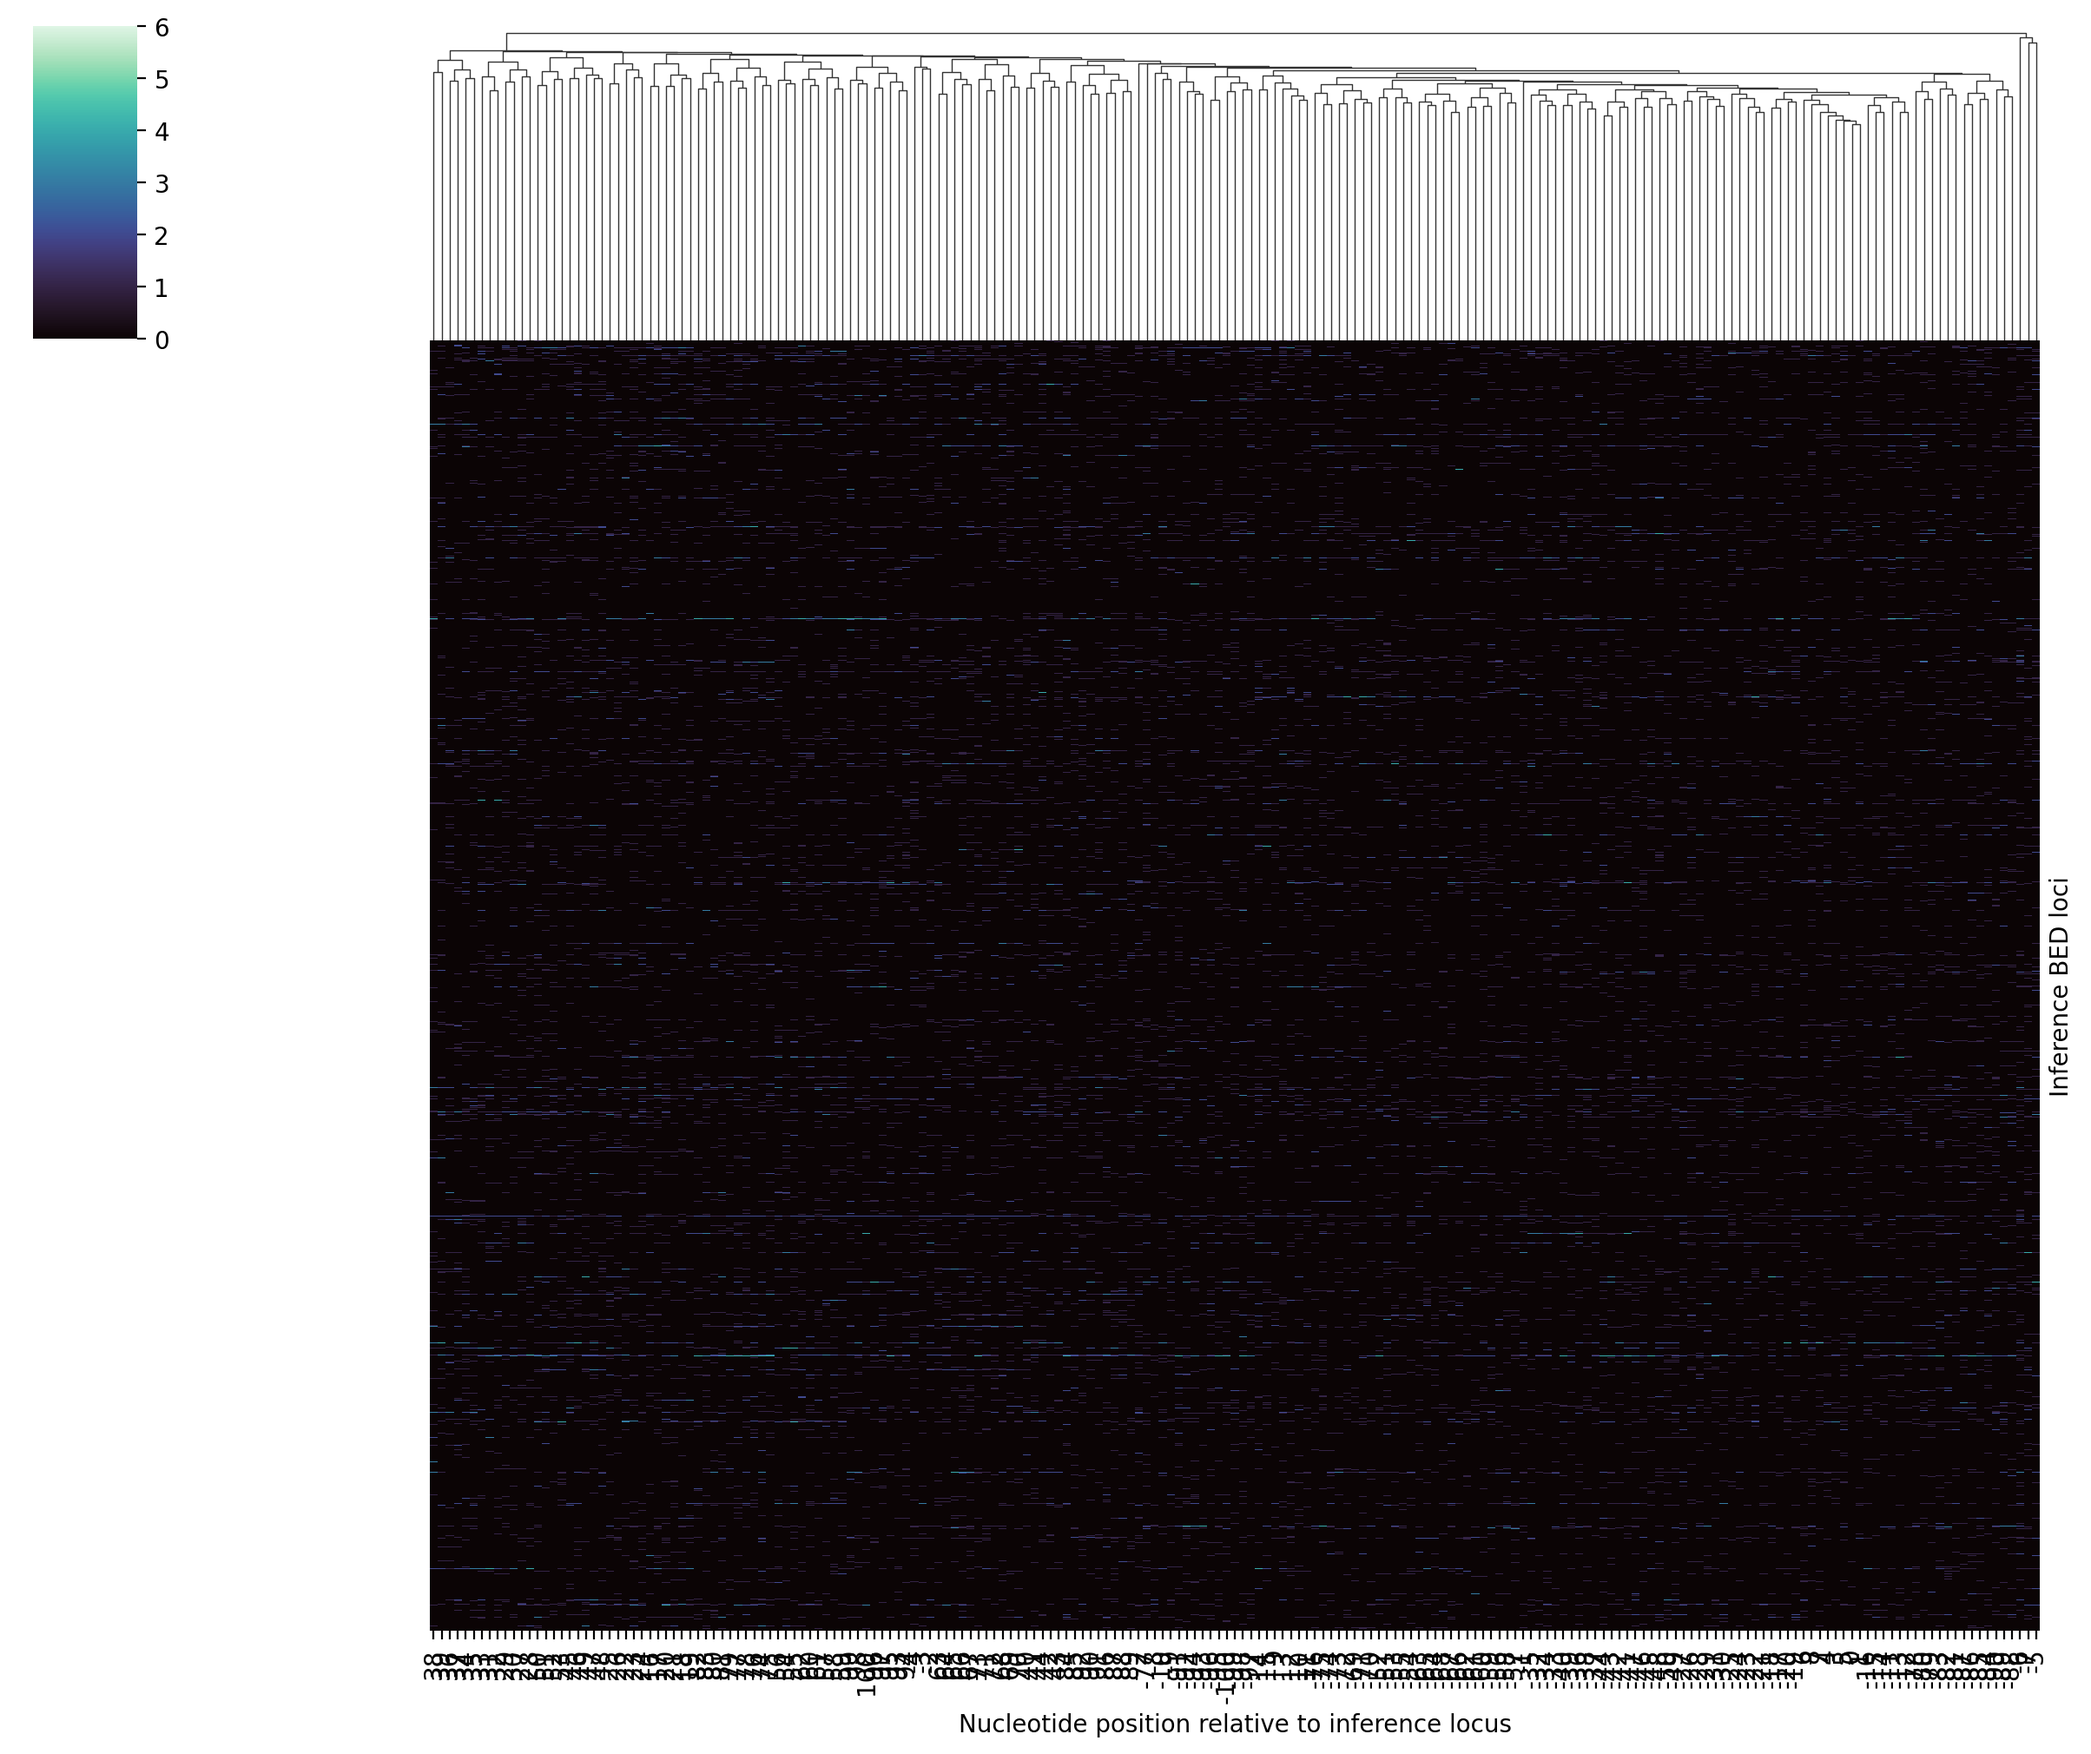
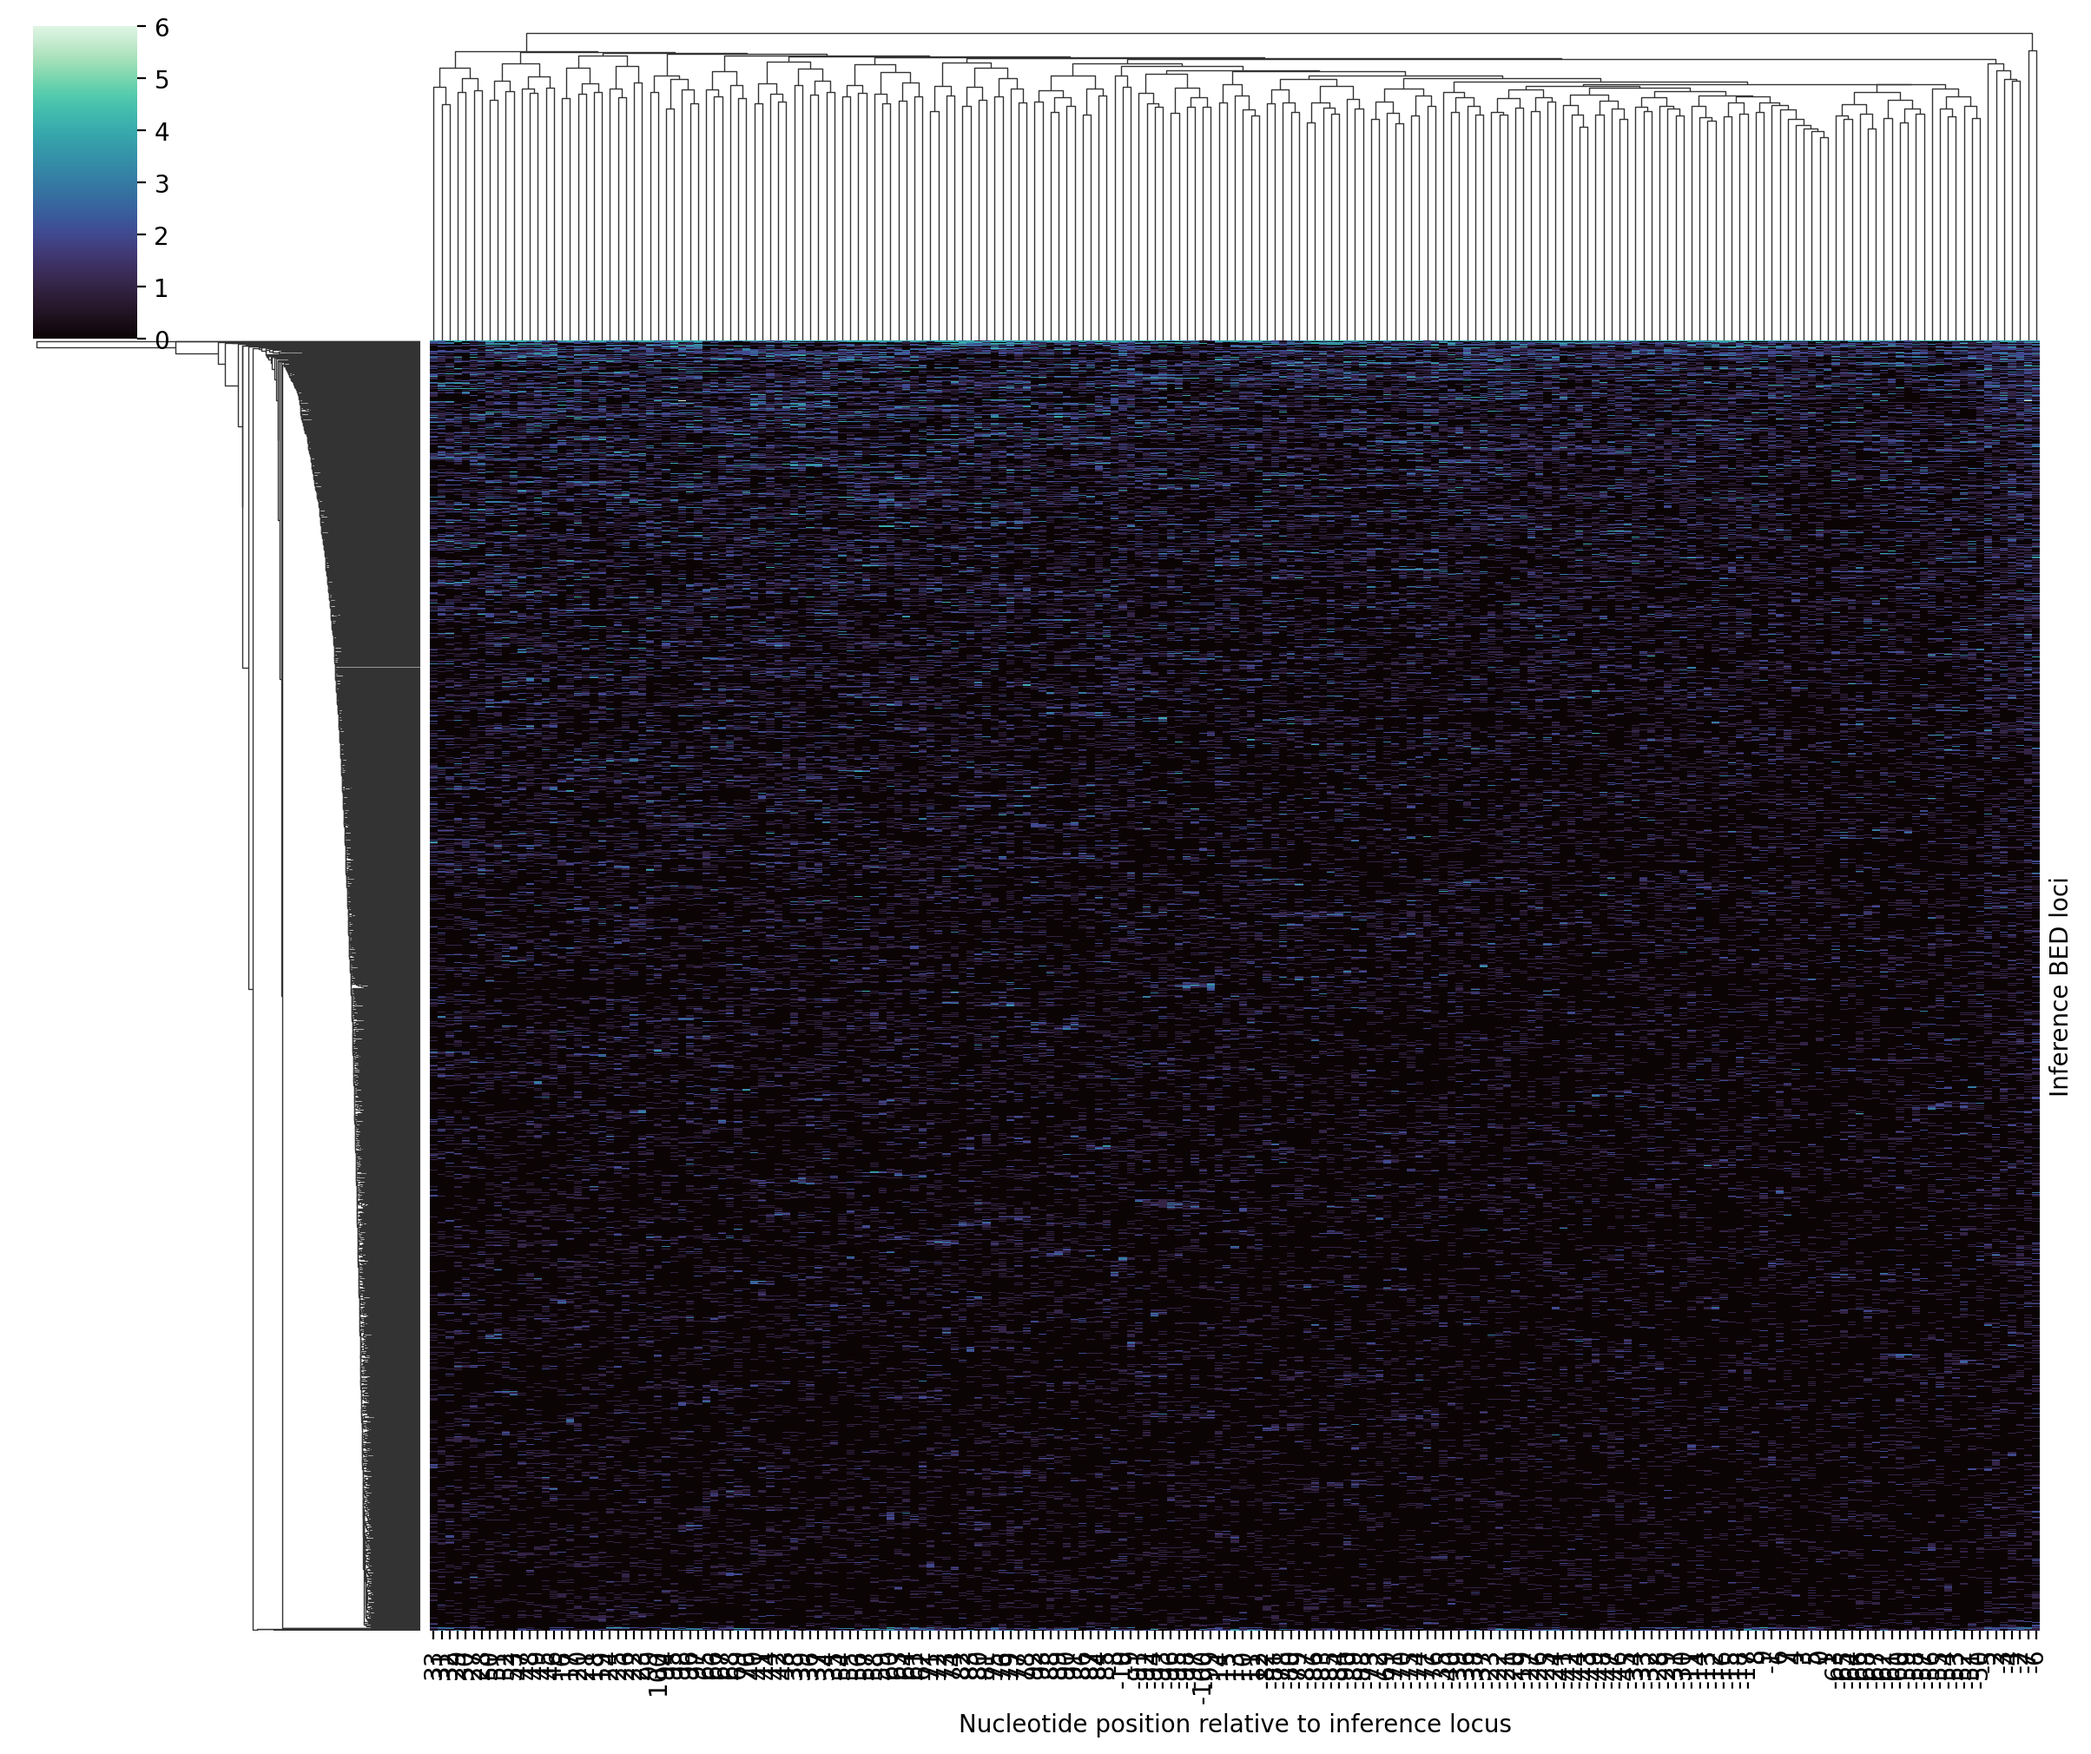
filtering inspect protein heatmap fixed

Changed region(s): [[0.0934, 0.1871, 0.9967, 0.9668], [0.1869, 0.0312, 0.9655, 0.0936]]

diff --git a/scripts/intersect_inference_bed.py b/scripts/intersect_inference_bed.py
@@ -361,8 +361,8 @@ def main():
             plt.plot(offsets, meta_profiles[protein_name], label=protein_name, linewidth=2)
 
         plt.axvline(0, color="black", linewidth=1, alpha=0.4)
-        plt.xlabel("Relative nucleotide position around inference locus (nt)")
-        plt.ylabel("Mean crosslink file-support per binf region (Gaussian smoothed)")
+        plt.xlabel("Relative nucleotide position around inference loci (nt)")
+        plt.ylabel("Mean crosslink support per region (Gaussian smoothed)")
         plt.xlim(-args.window, args.window)
         plt.legend(frameon=False, loc="center left", bbox_to_anchor=(1.02, 0.5), borderaxespad=0.0)
         plt.tight_layout(rect=[0.0, 0.0, 0.82, 1.0])
@@ -409,10 +409,10 @@ def main():
                 raise ValueError(f"Protein '{args.inspect_protein}' not found. Available proteins: {available}")
             nt_offsets = np.arange(-args.window, args.window + 1, dtype=np.int64)
             inspect_totals = inspect_counts_matrix.sum(axis=1)
-            inspect_keep_mask = inspect_totals >= 5
+            inspect_keep_mask = inspect_totals >= 25
             inspect_counts_filtered = inspect_counts_matrix[inspect_keep_mask, :]
             print(
-                f"{args.inspect_protein} inspect heatmap row filter (sum across nt >= 5): "
+                f"{args.inspect_protein} inspect heatmap row filter (sum across nt >= 25): "
                 f"kept {int(np.sum(inspect_keep_mask))} / {len(inspect_keep_mask)}"
             )
             protein_nt_fig = sns.clustermap(
